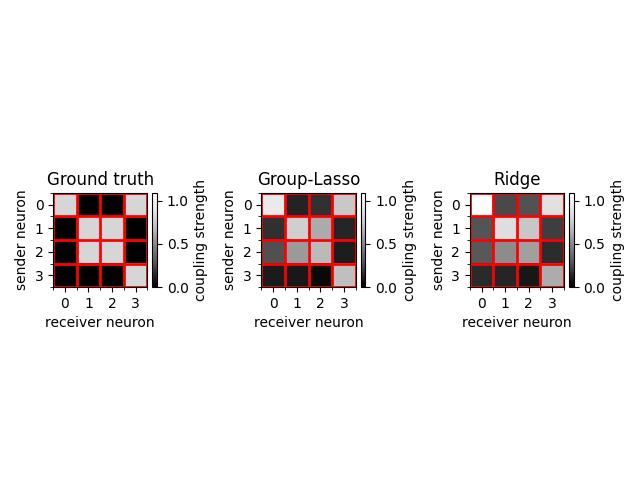
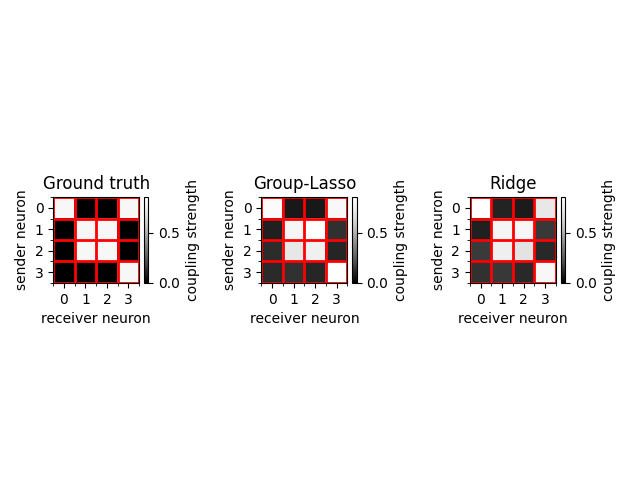
set up fits

Changed region(s): [[0.375, 0.3438, 0.6562, 0.6875], [0.0625, 0.3438, 0.3438, 0.6875], [0.6875, 0.3438, 0.9688, 0.6875]]

diff --git a/analysis/fit_real_data.py b/analysis/fit_real_data.py
@@ -1,3 +1,5 @@
+# %%
+# import libs
 import jax
 import jax.numpy as jnp
 import matplotlib.pylab as plt
@@ -12,10 +14,10 @@ from plot_utils import plot_coupling_mask, plot_filters
 
 # %%
 # Parameters
-dt_sec = 0.005
-window_size = 30
+dt_sec = 0.01
+window_size = 20
 min_rate_hz = 1
-n_basis_funcs = 5
+n_basis_funcs = 4
 basis_class_coupling = nsl.basis.RaisedCosineBasisLog
 basis_class_psth = nsl.basis.RaisedCosineBasisLinear
 
@@ -70,17 +72,27 @@ model_freq = np.einsum("tk,tj->tkj", frequency_mask, psth_basis).reshape(n_trial
 # convolve spikes
 convolved_spikes = nsl.utils.convolve_1d_trials(eval_basis_coupling, spikes)
 convolved_spikes = nsl.utils.nan_pad_conv(convolved_spikes, window_size, filter_type="causal")
-y, X = nsl.utils.combine_inputs(spikes, jnp.asarray(convolved_spikes), model_ori,
-                               model_freq,strip_left=window_size, reps=spikes.shape[2])
 
+del frequency_mask, orientation_mask, orientation_stack, frequency_stack
+y, X = nsl.utils.combine_inputs(spikes, jnp.asarray(convolved_spikes), model_ori,
+                              model_freq,strip_left=window_size, reps=spikes.shape[2])
+
+# %%
 # fit model
+group_mask = define_groups(n_neurons + n_freq + n_ori, n_basis_funcs=n_basis_funcs)
+# Fit a GLM with group-Lasso
+if len(jax.devices('gpu')):
+    target_device = jax.devices('gpu')[0]
+    y = jax.device_put(y, target_device)
+    X = jax.device_put(X, target_device)
+    group_mask = jax.device_put(group_mask, target_device)
 model = nsl.glm.GLMGroupLasso(
             solver_kwargs={'tol': 10**-8, 'maxiter': 1000, 'jit':True},
             inverse_link_function=jnp.exp,alpha=0.001
 )
 model.fit(X,y)
 
-group_mask = define_groups(n_neurons + n_freq + n_ori, n_basis_funcs=n_basis_funcs)
+
 
 weights_coupling = model.spike_basis_coeff_[:,:n_basis_funcs*n_neurons].reshape(n_neurons, n_neurons, -1)
 filter_predicted = np.einsum("tj, nmj -> nmt", eval_basis_coupling, weights_coupling)

diff --git a/analysis/plot_utils.py b/analysis/plot_utils.py
@@ -12,7 +12,8 @@ def bicolor_cmap(bounds=[0,0.5,1], colors=['white', 'k']):
 
 
 def plot_coupling_mask(*is_coupled_all, colors=['white', 'k'],
-                       cmap=None, title=["Coupling Map"], set_labels=False):
+                       cmap=None, title=["Coupling Map"], set_labels=False,
+                       plot_grid=True):
     num_comp = len(is_coupled_all)
     fig, axs = plt.subplots(1, num_comp)
     if num_comp == 1:
@@ -39,8 +40,8 @@ def plot_coupling_mask(*is_coupled_all, colors=['white', 'k'],
         ax.set_xlabel("receiver neuron")
         ax.set_ylabel("sender neuron")
 
-        # Here's the key line:
-        ax.grid(which='minor', color='r', linestyle='-', linewidth=2)
+        if plot_grid:
+            ax.grid(which='minor', color='r', linestyle='-', linewidth=2)
 
         # Adjusting the colorbar height to match the main plot
         divider = make_axes_locatable(ax)

diff --git a/analysis/matlab_loader.py b/analysis/matlab_loader.py
@@ -3,7 +3,7 @@ import scipy.io as sio
 from numpy.typing import NDArray
 from typing import Tuple
 
-data_path = "/Users/ebalzani/Code/group_lasso_grant/group-lasso-glm/data/m691l1#4_second_64_workspace.mat"
+data_path = "../data/m691l1#4_second_64_workspace.mat"
 
 
 def get_rate(spike_times, mn, mx):

diff --git a/analysis/generate_syntetic_activity.py b/analysis/generate_syntetic_activity.py
@@ -22,7 +22,7 @@ window_size = 100
 n_neurons = 4
 sparsity_mask = 0.75
 sim_duration_sec = 3600
-mean_firing_rate_Hz = 2
+mean_firing_rate_Hz = 4
 n_basis_funcs = 10
 
 # filter parameters (gamma.pdf(a_excit, b_excit) - gamma.pdf(a_inhib, b_inhib)
